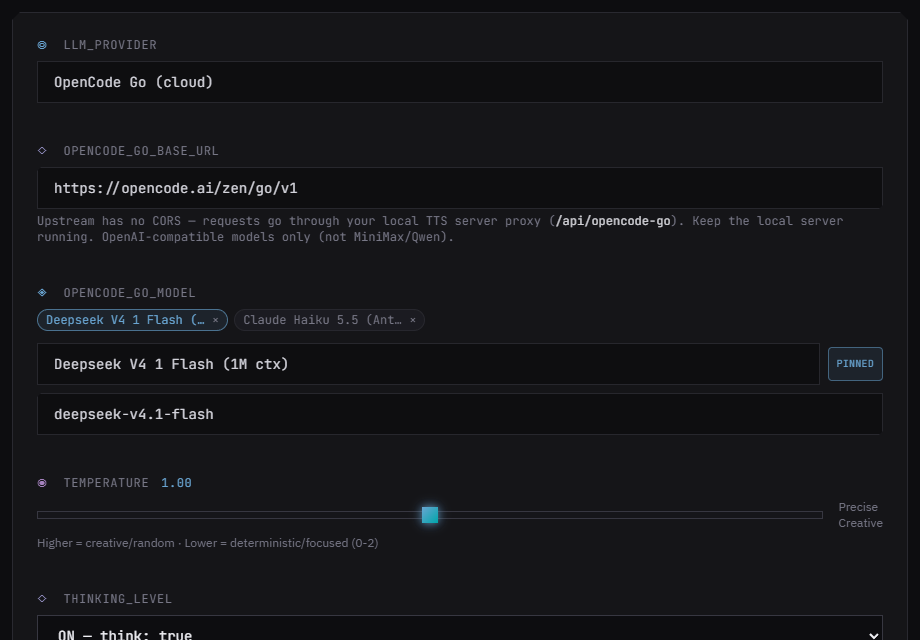
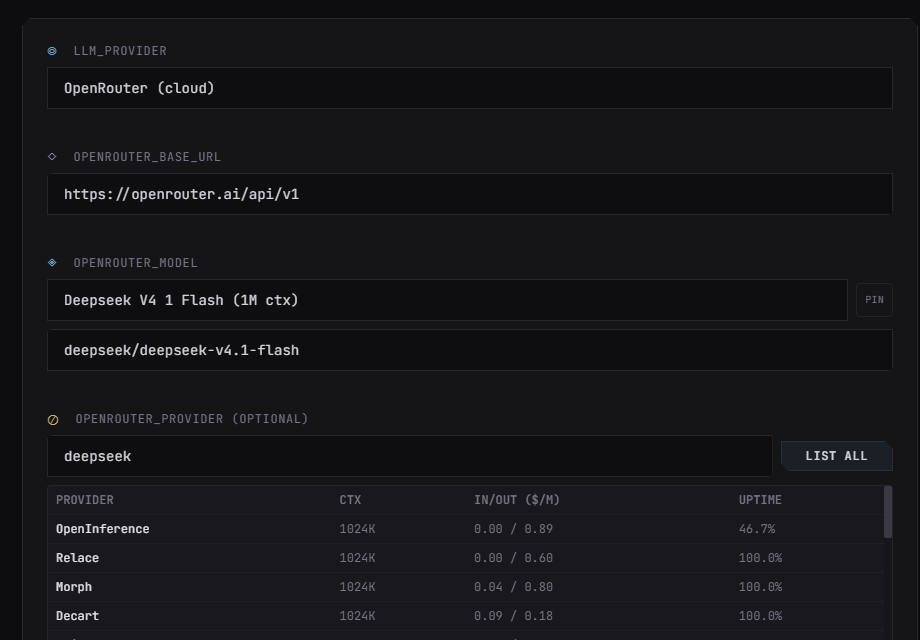
docs: emphasize OpenRouter provider routing, correct provider facts
Dedicated OpenRouter section (per-model provider routing, LIST ALL, sticky upstream routing); corrected cost rows for Ollama Cloud, OpenAI and OpenCode Go; prompt-cache wording generalized beyond OpenRouter. docs/options/llm.md aligned. Refresh demos/voidcast-options-llm.png to 920x640 to match the other settings screenshots.

diff --git a/README.md b/README.md
@@ -2,44 +2,77 @@
 
 ![Voidcast](logo.jpg)
 
-**Voidcast** is a desktop AI agent (Electron + React + Python) that combines chat, coding, web tools, and generative models in a single window. It runs on your own choice of LLM provider — local **Ollama** or a cloud provider you already have a key for — and ships with built-in tools for web search, scraping, YouTube, weather, PDF export, reminders, TTS/STT, image generation, and music generation. A full coding toolset (read/write/search/git/execute) operates on your local project, and desktop builds can connect **MCP servers** (stdio or remote URL, including OAuth). Everything runs locally — the Python tools server on port 8765 exposes an HTTP API and a LAN web UI for mobile access. No cloud lock-in, no telemetry, no motivational posters.
+<p align="center">
+  <a href="https://github.com/boromanx386/Voidcast/releases/latest"><img src="https://img.shields.io/github/v/release/boromanx386/Voidcast?label=release&color=6f42c1" alt="Latest release"></a>
+  <a href="LICENSE"><img src="https://img.shields.io/github/license/boromanx386/Voidcast?color=blue" alt="License: MIT"></a>
+  <img src="https://img.shields.io/badge/platform-Windows%20%7C%20Linux-2b6cb0" alt="Platforms: Windows and Linux">
+  <a href="https://github.com/boromanx386/Voidcast/releases"><img src="https://img.shields.io/github/downloads/boromanx386/Voidcast/total?color=2ea043" alt="Downloads"></a>
+  <img src="https://img.shields.io/badge/status-beta-orange" alt="Status: beta">
+</p>
 
-Providers: **Ollama** · **OpenRouter** · **NVIDIA NIM** · **DeepSeek** · **OpenAI** · **OpenCode Go** — see [Runs on Free Cloud APIs](#runs-on-free-cloud-apis).
+**One window for chat, code and creation.** Voidcast is a desktop AI agent (Electron + React + Python) that puts a multi-provider chat, a real coding agent, a browser it drives for you, and generative media tools in a single app. It runs on **your** models — local **Ollama**, or a cloud provider you already have a key for. No cloud lock-in, no telemetry, no motivational posters.
 
-*Voidcast is a solo hobby project — I built it for myself to learn more about AI and programming, and I’m sharing it in case it helps others too. If you use it and find it useful, that’s real motivation to keep improving it. Issues, ideas, and PRs are welcome.*
+Providers: **Ollama** · **OpenRouter** · **NVIDIA NIM** · **DeepSeek** · **OpenAI** · **OpenCode Go** — plus **Runware** for image and music. See [Providers](#providers).
+
+> **Status: beta and early.** Voidcast is a solo hobby project — I built it for myself to learn more about AI and programming, and I’m sharing it in case it helps others too. Expect rough edges; issues, ideas and PRs are genuinely welcome.
 
 <p align="center">
   <img src="demos/voidcast-hero.jpg" width="1000" alt="Voidcast — sessions sidebar, chat and the coding panel"/>
 </p>
 <p align="center"><em>Sessions on the left, the agent running parallel tools and workers in chat, and the coding panel with file tree, diff, commit bar and terminal.</em></p>
 
-### Quick demo (~39s) — sound on!
+<details>
+<summary><strong>Table of contents</strong></summary>
+
+- [Main features](#main-features)
+- [Quick demo (~39s)](#quick-demo-39s)
+- [Get started (one click)](#get-started-one-click)
+- [Updates (desktop)](#updates-desktop)
+- [The agent & tools](#the-agent--tools)
+  - [Music (Runware)](#music-runware) · [PDF export](#pdf-export) · [Agent skills](#agent-skills) · [MCP servers](#mcp-servers-desktop) · [Built-in browser](#built-in-browser) · [Chat modes](#chat-modes)
+- [Coding tools](#coding-tools)
+- [Providers](#providers)
+- [OpenRouter support](#openrouter-support-per-model-provider-routing)
+- [Context compression](#context-compression)
+- [Long-term memory](#long-term-memory)
+- [Image-aware chat](#image-aware-chat)
+- [Themes & UI](#themes--ui)
+- [Speech & audio](#speech--audio)
+- [LAN web UI — chat from your phone](#lan-web-ui--chat-from-your-phone)
+- [Tech stack](#tech-stack)
+- [Development & building](#development--building)
+- [Repository layout](#repository-layout)
+- [License & third-party](#license--third-party)
+
+</details>
+
+---
+
+## Main features
+
+- **Everything in one window** — chat, coding, web tools and generative models together. The agent invokes search, YouTube, weather, image generation/edit, music and PDF, and **results appear inline** in the conversation. No tab juggling.
+
+- **Run several agents at once** — start work in one session, open another, keep both running (up to **3 concurrent agent turns**). Each chat keeps its own messages, project and tool loop, and Stop cancels only the active session. **Team** mode adds up to **2 parallel coding workers**. See [Multi-chat & Team](docs/multi-chat-and-team.md).
+
+- **A real coding agent** — point it at a project folder and it reads, edits, searches and greps your code, runs **git** and **shell** commands, and drives an integrated IDE panel (file tree, diff, commit bar, terminal). Modes cover full implement (**Agent**), read-only Q&A (**Ask**), explore-then-**Approve & Build** (**Plan**), and multi-file orchestration with workers (**Team**). Project context persists per repo. See [Coding tools](#coding-tools).
+
+- **A browser it actually drives, that you can take over** — Voidcast ships its **own Chromium** (the coding panel **WEB** tab). You and the agent share the same view: navigate, click, type, snapshot, screenshot, emulate devices. Clicks are real CDP input, so React apps and canvas games react as to a real user. See [Built-in browser](#built-in-browser).
+
+- **Your models, your keys** — local **Ollama** for full offline, or bring a key for OpenRouter, NVIDIA NIM, DeepSeek, OpenAI or OpenCode Go. **OpenRouter** alone unlocks 300+ models from a single key — and you can **pin the upstream provider per model** (price, context and uptime shown inline), so routing stays predictable and prompt caches stay warm. Keys and settings stay on your machine; Voidcast has no cloud account and never receives your keys. See [Providers](#providers) and [OpenRouter support](#openrouter-support-per-model-provider-routing).
+
+- **Tools that do things** — web search, YouTube search + transcripts, weather, web scraping, PDF export, image generation and edit, music generation, TTS/STT, reminders, settings control, plus **MCP servers** (stdio or remote URL, including OAuth). See [The agent & tools](#the-agent--tools).
+
+- **Watch it think** — adjacent read-only tool calls run in parallel (up to four) while serial and mutating calls stay ordered. The chat shows active tool names and keeps intermediate drafts in collapsible round blocks.
+
+- **Chat from your phone** — an opt-in **LAN web UI** served from your PC, so your own phone or tablet can use the same agent, models and memory. See [LAN web UI](#lan-web-ui--chat-from-your-phone).
+
+---
+
+## Quick demo (~39s) — sound on!
 
 https://github.com/user-attachments/assets/e7700e45-ca2c-40a0-b3d0-ffbdd3cf1c1c
 
 <p align="center"><em>User: switch theme to Blood Moon and turn voice on — the agent replies with TTS and changes the UI live.</em></p>
-
----
-
-## What You Can Do
-
-**Browse and create without leaving chat**  
-Agent invokes search, YouTube, weather, image generation and edit, music generation, PDF — results appear inline.
-
-**See what the agent is doing**
-Adjacent read-only tool calls can run in parallel (up to four), while serial and mutating calls stay ordered. The chat shows active tool names and keeps intermediate drafts available in collapsible round blocks.
-
-**Control the app from chat**  
-Change themes, toggle voice, or update settings directly via natural commands in the conversation.
-
-**Work with your code**  
-The agent reads your project, edits files, runs git commands, and executes shell commands — all from the integrated IDE panel. Coding context (recent files, directories, searches, git ops, command results, tool failures) is stored per project and restored when you reopen a repo. Composer modes cover full implement (**Agent**), read-only Q&A (**Ask**), structured plan then **Approve & Build** (**Plan**), and multi-file orchestration with coding workers (**Team**). Details under [Chat modes](#chat-modes) and [Multi-chat & Team](docs/multi-chat-and-team.md).
-
-**Several chats at once**  
-Start work in one session, open another, keep both running (up to **3** concurrent agent turns). Each chat keeps its own messages, project, and tool loop — Stop cancels only the active session. See [Multi-chat & Team](docs/multi-chat-and-team.md).
-
-**Facts & memory**  
-Facts, reminders, and preferences persist across sessions — stored locally in IndexedDB. 
 
 ---
 
@@ -55,9 +88,9 @@ Facts, reminders, and preferences persist across sessions — stored locally in 
 3. Add your API keys in **Options → General → CLOUD_API_KEYS** (stored only on your PC).
 4. Start the agent.
 
-> 💡 **First launch to first chat: under 60 seconds.**
+> 💡 **Already have a key? First launch to first chat is under a minute.** The packaged app bundles the Python tools server, so there is no Python/pip setup — just add keys and go.
 
-Requires Windows 10/11 or a 64-bit Linux desktop (X11/Wayland). Both packages bundle the Python tools server — no manual Python setup needed.
+Requires Windows 10/11 or a 64-bit Linux desktop (X11/Wayland).
 
 ---
 
@@ -98,15 +131,12 @@ Available tools:
 - **Coding Tools** — read, write, edit files; run git and shell commands (see below)
 - **MCP Servers (desktop)** — connect external MCP tools from `~/.voidcast/mcp.json` (see below)
 
-All providers share the same tool catalog and executor. See [Runs on Free Cloud APIs](#runs-on-free-cloud-apis) for the list and what each gives you.
+All providers share the same tool catalog and executor. See [Providers](#providers) for the list and what each gives you.
 
 <p align="center">
   <img src="demos/voidcast-options-all.png" width="900" alt="Voidcast Options tabs"/>
 </p>
 <p align="center"><em>Options — General, LLM, Media, TTS/STT, Tools, Skills and Sub-Agent in one composite. Every tab is documented in <a href="docs/options/README.md">docs/options</a>.</em></p>
-
-
-
 
 ### Music (Runware)
 
@@ -236,27 +266,45 @@ Full detail: [docs/coding.md](docs/coding.md).
 
 ---
 
-## Runs on Free Cloud APIs
+## Providers
 
-Voidcast does not charge anything. It connects to free tiers of providers you can sign up for:
+Voidcast does not charge anything and has no cloud account. It connects you to providers you choose — a **local** model for full offline, a **subscription**, or **pay-as-you-go** clouds with your own keys:
 
-| Provider | What You Get |
-|----------|-------------|
-| **OpenRouter** | Claude, GPT-4o, DeepSeek, Gemini + 100 others |
-| **DeepSeek** | Direct API — V4 Pro / Flash; billed from your DeepSeek balance |
-| **OpenAI** | Official Chat Completions API — GPT, o-series (free trial credit) |
-| **OpenCode Go** | OpenAI-compatible chat models via [OpenCode Go](https://opencode.ai/docs/go) |
-| **Ollama** | Open-source models (Qwen, Gemma, GLM, Mistral...) |
-| **NVIDIA NIM** | Enterprise-grade inference for open models |
-| **Runware** | Image generation, image edit, and AI music (pay-per-use, typically pennies) |
-| **OpenRouter** | Optional image generation (Gemini Flash Image, GPT Image 2) via the same API key as chat/TTS |
+| Provider | What you get | Cost |
+|----------|--------------|------|
+| **Ollama** | Open-source models (Qwen, Gemma, GLM, Mistral…) on your own machine — or Ollama's hosted models | Local: free · [Ollama Cloud](https://ollama.com/pricing): free tier, Pro from $20/mo |
+| **OpenRouter** ⭐ | Claude, GPT, Gemini, DeepSeek + 300 more from one key — chat, **per-model provider routing**, TTS, and optional image models (Gemini Flash Image, GPT Image 2) | Free tiers + pay-as-you-go |
+| **NVIDIA NIM** | Enterprise-grade inference for open models | Free credits |
+| **DeepSeek** | Direct API — V4 Pro / Flash | Pay-as-you-go (prepaid balance) |
+| **OpenAI** | Official Chat Completions API — GPT, o-series | Pay-as-you-go, prepaid credits — no free API tier |
+| **OpenCode Go** | OpenAI-compatible chat models via [OpenCode](https://opencode.ai/docs/go) | Subscription (from $10/mo) |
+| **Runware** | Image generation, image edit, and AI music (ACE-Step) | Pay-per-use (typically pennies) |
 
-All you need are free accounts and API keys. Chat LLMs can stay on free tiers; **TTS, STT, and image/music runs are very cheap** — usually cents per session, not dollars.
+All you need are the accounts and API keys. Run models locally (Ollama) for free or use cloud keys on low-cost tiers; **TTS, STT, and image/music runs are very cheap** — usually cents per session, not dollars.
 
-**Multimodal pricing:** OpenRouter Whisper (STT), TTS, and image models bill per request or token at low rates. Runware charges per image or audio clip at similarly small amounts. Voidcast adds no markup; see each provider’s pricing page for current numbers.
+**Pricing:** OpenRouter Whisper (STT), TTS, and image models bill per request or token at low rates. Runware charges per image or audio clip at similarly small amounts. Voidcast adds no markup; see each provider’s pricing page for current numbers.
 
 **Privacy:** API keys and app settings stay on your machine (local app storage). Voidcast has no cloud account and never receives your keys — the desktop app talks to OpenRouter, NVIDIA NIM, DeepSeek, OpenAI, OpenCode Go, Runware, or Ollama from your PC (OpenCode Go via the local tools proxy). With **LAN_WEB_ACCESS** enabled, keys are registered on the local tools host for phone proxying — not baked into the phone browser build.
 
+---
+
+## OpenRouter support (per-model provider routing)
+
+OpenRouter is a first-class provider in Voidcast: **one key, 300+ models** (Claude, GPT, Gemini, DeepSeek, Llama, Qwen…), plus optional image models and TTS. What most tools don't expose, Voidcast does — OpenRouter's **provider routing** is right in **Options → LLM**:
+
+- **Pin the provider per model** — set `OPENROUTER_PROVIDER` to a slug (`anthropic`, `openai`, `deepinfra`, `deepseek`, …). Requests then go **only** to that provider (`provider.only`, no fallbacks), so latency, price and behaviour stop moving under you.
+- **Remembered per model** — the lock is stored per model id (`openrouterProviderByModel`). Switch to another model and Voidcast restores *that* model's provider; switch back and it comes with it.
+- **LIST ALL** — lists every provider currently serving the selected model, with **context length, input/output price (per 1M tokens) and recent uptime**. Click a row to apply it as the lock — the field fills in and saves instantly.
+- **Sticky routing for upstream cache** — each chat sends a stable `session_id`, so OpenRouter keeps routing the conversation to the same **upstream** provider, keeping that provider's prompt cache warm. Note this is an OpenRouter routing aid, not the cache itself: Voidcast's cache-friendly prompt ordering (stable system prompt + history prefix, volatile context on the final turn) applies to **every** provider, and cache-hit tokens are tracked for Ollama, OpenAI, DeepSeek and OpenRouter alike — see [Context Compression](#context-compression).
+
+Leave `OPENROUTER_PROVIDER` empty for OpenRouter's default load balancing across providers.
+
+<p align="center">
+  <img src="demos/voidcast-options-llm.png" width="820" alt="Options → LLM: OpenRouter model, provider lock and the LIST ALL provider table"/>
+</p>
+<p align="center"><em>Options → LLM — OpenRouter model picker, the optional <code>OPENROUTER_PROVIDER</code> lock, and the <strong>LIST ALL</strong> table (provider · ctx · price · uptime). Click a row to pin it.</em></p>
+
+Full field reference: [docs/options/llm.md](docs/options/llm.md).
 
 ---
 
@@ -278,8 +326,6 @@ Cross-chat memory is stored locally in IndexedDB:
 - **Desktop ↔ LAN sync** — when phone and PC use the same tools host, entries can merge via the user-data API (see **LAN web UI** below)
 
 **Reminders** also live locally, with optional **desktop notifications** (Windows toast when due). Reminders participate in the same LAN sync as long memory.
-
-
 
 ---
 
@@ -325,7 +371,7 @@ Other UX features:
 - **Text-to-Speech** — Local OmniVoice (free on your PC; requires `.venv` setup, see `LOCAL_TTS_SETUP.md`), or cloud via Runware / OpenRouter TTS (very low cost per reply)
 - **Speech-to-Text** — local **Whistle** via the bundled `cactus-needle` engine (fully offline, no API key; ~16.9 MB, 7 languages) or OpenRouter Whisper (push-to-talk; inexpensive per recording)
 
-Cloud voice options are pay-per-use; see **Runs on Free Cloud APIs** above for typical costs.
+Cloud voice options are pay-per-use; see [Providers](#providers) above for typical costs.
 
 ---
 
@@ -466,7 +512,6 @@ This approach ensures all users get the same environment without manual Python s
 ├── demos/                           # Screenshots & demo assets used in this README
 ├── scripts/                         # Build/release helpers (tools exe, web UI copy…)
 ├── site/                            # Landing page (static site)
-├── videos/                          # Promo/demo video sources
 ├── CHANGELOG.md                     # Release history
 ├── LICENSE                          # MIT
 ├── THIRD_PARTY_NOTICES.md           # Bundled third-party licenses
@@ -490,4 +535,4 @@ Voidcast uses:
 
 ---
 
-Maintained by one developer. [Open an issue](https://github.com/boromanx386/Voidcast/issues) anytime.
+Maintained by one developer. If Voidcast is useful to you, a ⭐ helps others find it — and [open an issue](https://github.com/boromanx386/Voidcast/issues) anytime with bugs or ideas.

diff --git a/docs/options/llm.md b/docs/options/llm.md
@@ -25,11 +25,14 @@ The active provider determines which provider-specific group of fields is shown 
 - `openrouterBaseUrl` — default `https://openrouter.ai/api/v1`
 - `openrouterApiKey` — stored locally (hidden from the agent)
 - `openrouterModel` — default `'openrouter/free'`
-- **Provider-only lock** — `openrouterProviderOnly` (string, e.g. `'openai'`). When set, OpenRouter requests use `provider.only` and never fall back to other providers. Kept in sync with `openrouterProviderByModel[openrouterModel]`.
-- **Per-model provider mapping** — `openrouterProviderByModel` (`Record<string, string>`). Maps each OpenRouter model id to a provider slug lock. If a model has a lock, requests for that model go only to that provider; otherwise OpenRouter default routing is used. Editing the lock for the current model updates `openrouterProviderOnly` too.
+
+One key for 300+ models (Claude, GPT, Gemini, DeepSeek, Llama, Qwen...), plus optional image models and TTS. OpenRouter can also serve the same model from several upstream providers, and Voidcast exposes that routing directly:
+
+- **Pin the provider per model** — `openrouterProviderOnly` (string slug, e.g. `'anthropic'`, `'openai'`, `'deepinfra'`) is the lock for the **currently selected model**. When set, requests use `provider.only` and never fall back to another provider; leave it empty for OpenRouter's default load balancing.
+- **Remembered per model** — `openrouterProviderByModel` (`Record<string, string>`) stores a lock **per model id**. Selecting a model that has a saved lock restores it into `openrouterProviderOnly`; editing the lock updates both.
+- **LIST ALL** — queries OpenRouter for every provider serving the selected model and renders a table: **provider · CTX · IN/OUT price (per 1M) · recent uptime**. Click a row to apply that provider as the current model's lock. Desktop requests hit OpenRouter directly; LAN web requests use the local proxy.
+- **Sticky routing for upstream cache** — each chat sends a stable `session_id`, so OpenRouter keeps routing the conversation to the same upstream provider and that provider's prompt cache stays warm. Cache-friendly prompt ordering (a byte-identical system prompt + history prefix, with volatile context on the final user turn) is **not** OpenRouter-specific: it holds for **every** provider, and cached-token counts are read back from Ollama, OpenAI, DeepSeek and OpenRouter alike. See [../chat.md](../chat.md).
 - **Pinned models** — `pinnedModels` (`string[]`). Provider-specific ids like `'openrouter:anthropic/claude-sonnet-5'` or `'openrouter:openai/gpt-5.6-sol'`. Pinned models appear as quick-select chips in the panel (and in the chat model picker); toggle a pin on/off per candidate model.
-- **Provider listing** — **LIST ALL** queries OpenRouter for every provider serving the selected model and shows provider name, context length, input/output price, and recent uptime. Click a row to apply that provider as the current model's `OPENROUTER_PROVIDER` lock. Desktop requests go directly to OpenRouter; LAN web requests use the local proxy.
-- **Sticky routing for prompt cache** — each chat sends a stable `session_id` so OpenRouter keeps routing the conversation to the same provider and its prompt cache keeps hitting. Volatile per-turn context (clock, coding memo, live processes, summary, long-term memory) is attached to the final user turn rather than a trailing system message, keeping the cached prefix byte-identical.
 
 ### NVIDIA
 - `nvidiaBaseUrl` — default `https://integrate.api.nvidia.com/v1`
